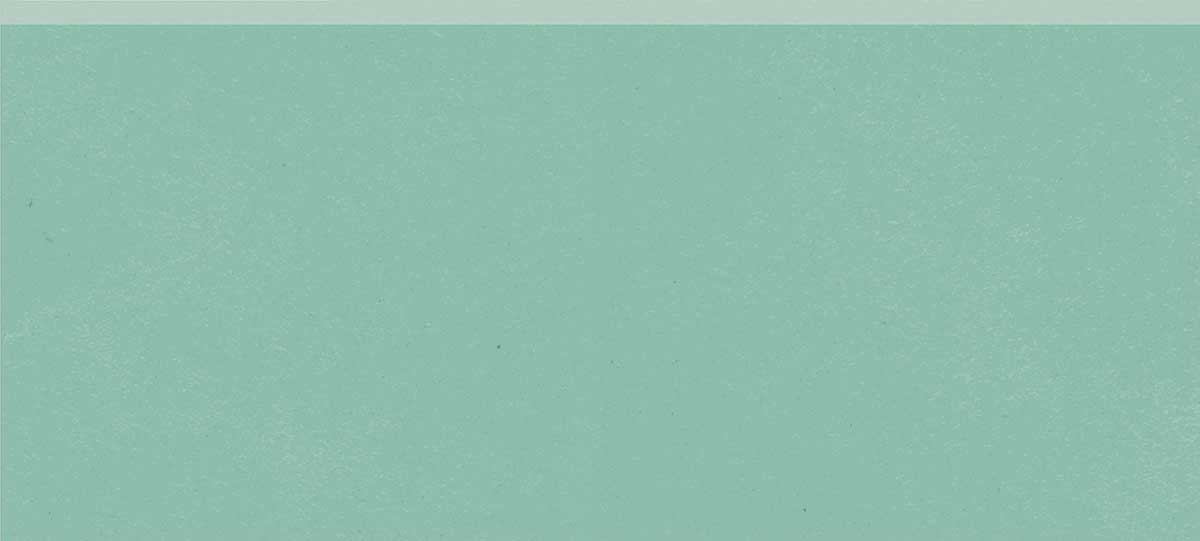
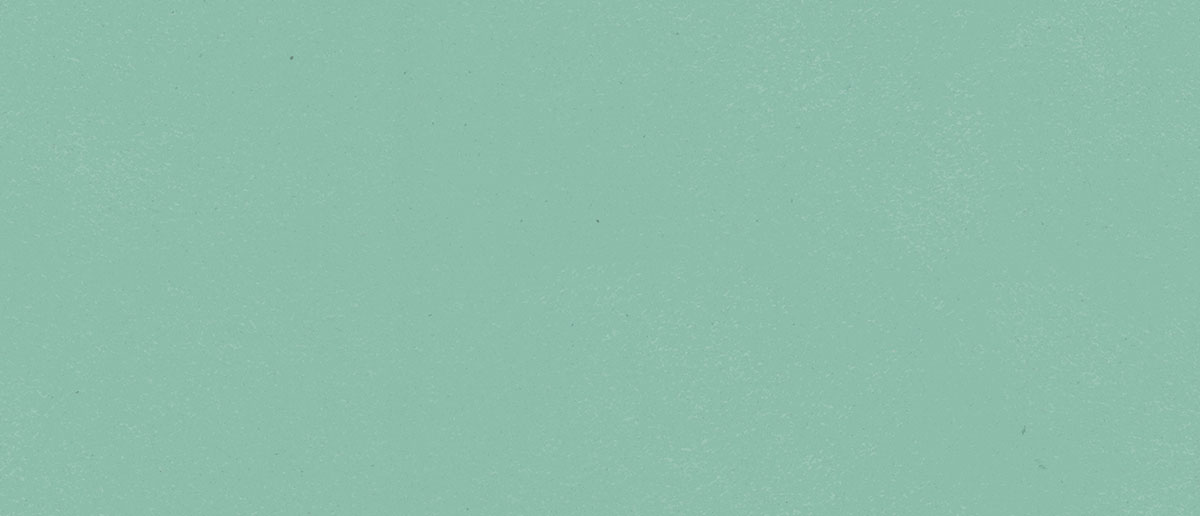
Full screen about page

Changed region(s): [[0.0, 0.0, 1.0, 0.062]]

diff --git a/src/routes/about.svelte b/src/routes/about.svelte
@@ -26,7 +26,6 @@
 		<div class="chapter-content">
 			<div class="blocks">
 				<div class="block block-1">
-					<div class="img"></div>
 					<div class="content">
 						<div class="thing thing-1"><div class="pod"></div></div>
 						<h2 class="h6">About this Project</h2>
@@ -41,7 +40,6 @@
 					</div>
 				</div>
 				<div class="block block-2">
-					<div class="img"></div>
 					<div class="content">
 						<div class="thing thing-2"><div class="pod"></div></div>
 						<h2 class="h6">About the Champ Foundation</h2>
@@ -71,20 +69,10 @@
 
 	.chapter-1 {
 		border-top: 35rem solid #b7ccc1;
+		background: url('/img/about-bg-green.jpg') repeat center #94bfae;
 		.chapter-content {
 			position: relative;
-			background: url('/img/about-bg-green.jpg') no-repeat center -28rem #94bfae;
 			background-size: cover;
-			&::after {
-				content: '';
-				display: block;
-				position: absolute;
-				right: 0;
-				bottom: -28rem;
-				left: 0;
-				height: 56rem;
-				background-color: rgba(255, 255, 255, 0.4);
-			}
 		}
 		blockquote {
 			margin: 0 auto;
@@ -107,36 +95,54 @@
 	}
 
 	.chapter-2 {
+		background: url('/img/home-gray.jpg') repeat 0 0 #dfdeda;
 		.chapter-content {
 			width: 100%;
 		}
 		.bg {
+			position: relative;
 			height: 0;
-			padding-bottom: 58.16%;
+			padding-bottom: 58.1429%;
 			background: url('/img/about-bg.jpg') no-repeat center #b4c599;
+			background-size: cover;
+			&::before {
+				content: '';
+				display: block;
+				position: absolute;
+				top: 0;
+				right: 96.5%;
+				bottom: 0;
+				left: -3.5%;
+				background-color: rgba(255, 255, 255, 0.4);
+				z-index: 2;
+			}
 		}
 	}
 
 	.chapter-3 {
+		// .chapter-content {}
+		background: url('/img/square-blue.jpg') repeat 0 0 #93c6ba;
 		color: white;
 		font: $light 18rem/22rem $font;
 		text-align: center;
-		// .chapter-content {}
+		&::after {
+			content: '';
+			display: block;
+			position: absolute;
+			top: 0;
+			bottom: 0;
+			left: 0;
+			width: 50vw;
+			background: url('/img/square-green.jpg') repeat 0 0 #ef6d6b;
+		}
 		.blocks {
 			display: flex;
 		}
 		.block {
 			position: relative;
 			flex: 1;
+			padding-bottom: 45.35%;
 		}
-		.img {
-			height: 100%;
-			padding-bottom: 90.7%;
-			background: none no-repeat center #e4e3df;
-			background-size: cover;
-		}
-		.block-1 .img { background-image: url('/img/square-green.jpg'); }
-		.block-2 .img { background-image: url('/img/square-blue.jpg'); }
 		.content {
 			display: flex;
 			flex-direction: column;
@@ -187,6 +193,24 @@
 		}
 	}
 
+	@media (--large) {
+		.chapter-3 {
+			.content {
+				right: 40rem;
+				left: 40rem;
+			}
+		}
+	}
+	@media (--medium-down) {
+		.chapter-3 {
+			background: none;
+			&::after { display: none; }
+			.blocks { flex-direction: column; }
+			.block { padding-bottom: 90.7%; }
+			.block-1 { background: url('/img/square-green.jpg') repeat 0 0 #ef6d6b; }
+			.block-2 { background: url('/img/square-blue.jpg') repeat 0 0 #93c6ba; }
+		}
+	}
 	@media (--small-down) {
 		.chapter-1 {
 			blockquote {
@@ -197,11 +221,13 @@
 				font: $light 26rem/38rem $font;
 			}
 		}
-		// .chapter-2 {
-		// }
 		.chapter-3 {
-			.blocks {
-				flex-direction: column;
+			.block {
+				padding: 0;
+			}
+			.content {
+				position: static;
+				padding: 80rem 40rem;
 			}
 		}
 	}
